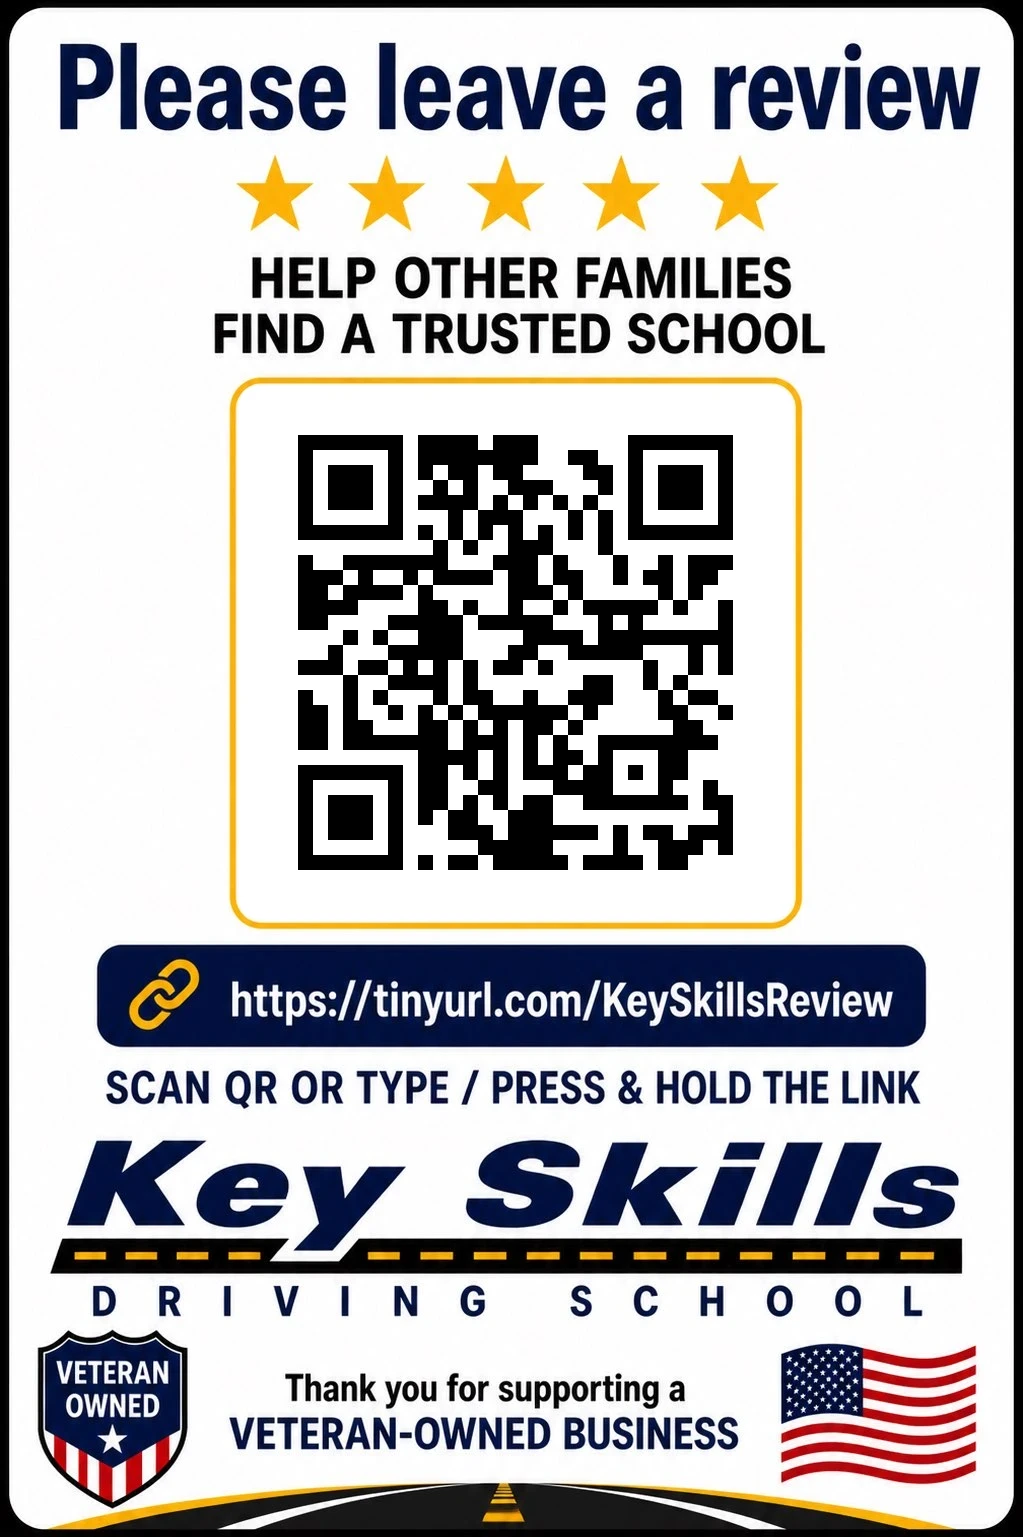
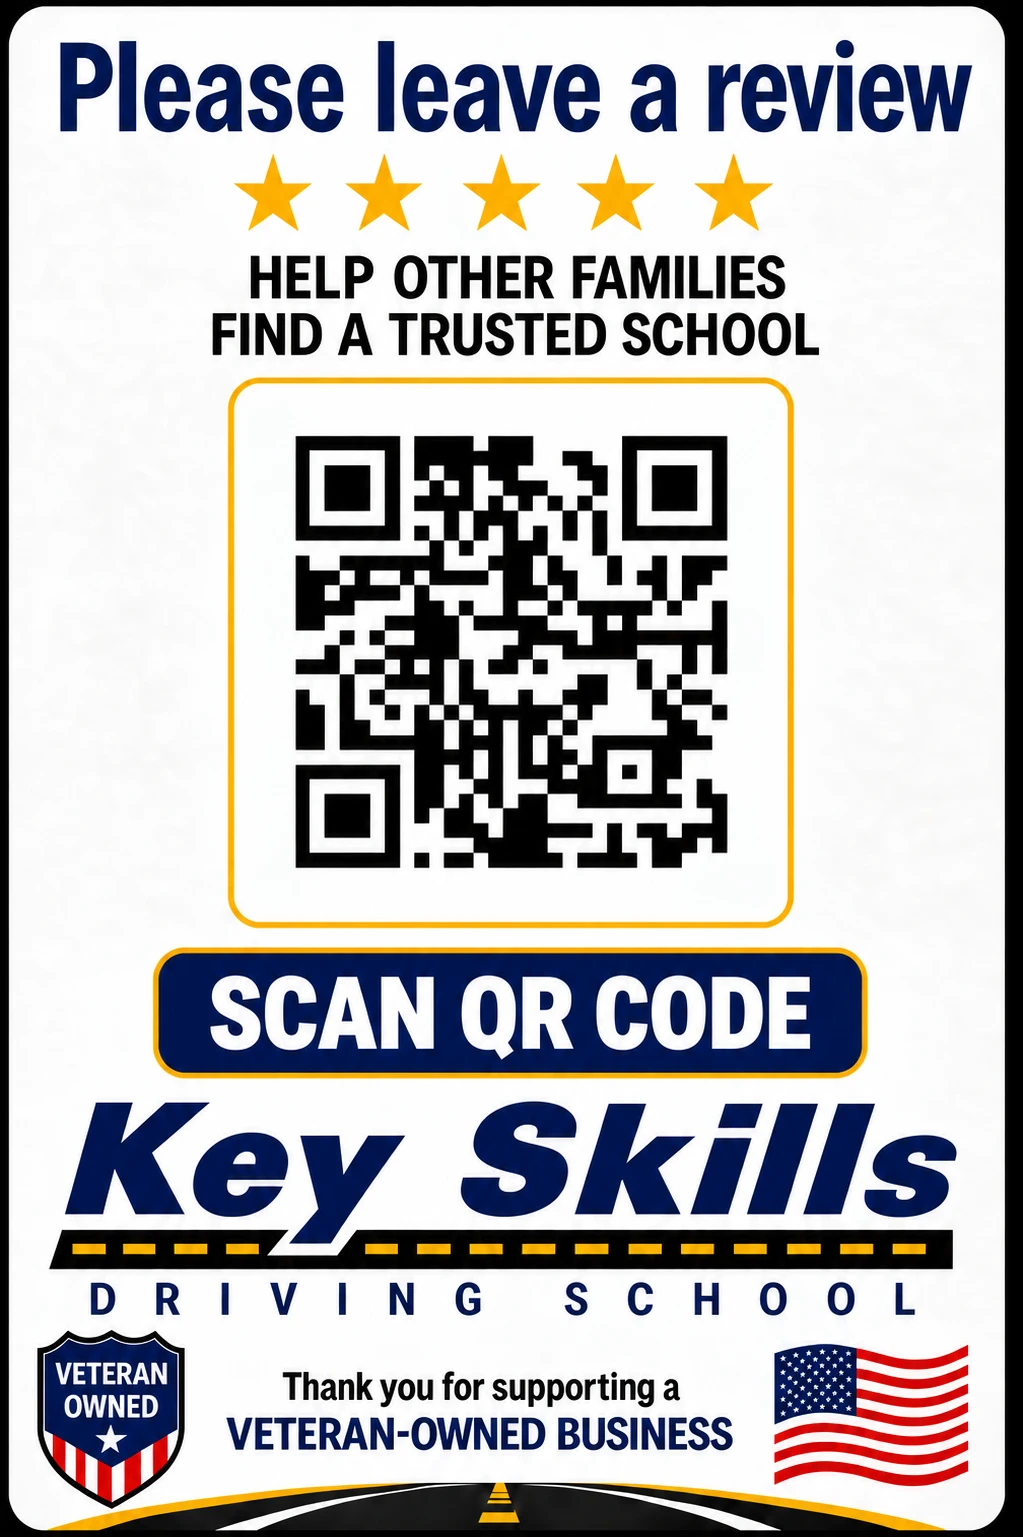
Review: Eli's new card
Replaces the review card image with the new version he sent (same 1023x1537). Its QR code scans as-is (jsQR and ZXing both read https://tinyurl.com/KeySkillsReview), so nothing was composited this time. The invisible copy-link tap target now sits over the SCAN QR CODE bar, and the alt text no longer mentions a typed link. Version 3.9.5.

Changed region(s): [[0.0303, 0.0, 1.0, 0.9993], [0.2727, 0.2811, 0.7273, 0.5621]]

diff --git a/docs/app.js b/docs/app.js
@@ -7,7 +7,7 @@ import {
 import { qrSvg } from './review.js';
 
 // Bump together with CACHE in sw.js on every release.
-const VERSION = '3.9.4';
+const VERSION = '3.9.5';
 
 const AI_APPS = {
   chatgpt: { label: 'ChatGPT', url: 'https://chatgpt.com/' },
@@ -1164,13 +1164,13 @@ function schoolBrand(name) {
   </div>`;
 }
 
-// With the school's own link, show Eli's full review card (its QR code was replaced with one
-// that scans). With any other link, fall back to a drawn card with a QR code for that link.
+// With the school's own link, show Eli's full review card (his 2026-09-17 version, whose QR code
+// scans). With any other link, fall back to a drawn card with a QR code for that link.
 function renderReview() {
   const { reviewUrl } = state.settings;
   const card = reviewUrl === REVIEW_DEFAULTS.reviewUrl
     ? `<div class="rv-image-wrap">
-        <img src="review-card.webp" width="1023" height="1537" alt="Please leave a review. Scan the QR code or go to tinyurl.com/KeySkillsReview. Key Skills Driving School, a veteran-owned business.">
+        <img src="review-card.webp" width="1023" height="1537" alt="Please leave a review. Scan the QR code. Key Skills Driving School, a veteran-owned business.">
         <button class="rv-link-hit" data-action="copy-review" aria-label="Copy the review link"></button>
       </div>`
     : drawnReviewCard();

diff --git a/docs/styles.css b/docs/styles.css
@@ -695,13 +695,13 @@ textarea.big { min-height: 170px; }
   border-radius: 3% / 2%;
   box-shadow: 0 6px 24px rgba(0, 0, 0, 0.18);
 }
-/* Invisible tap target over the link bar printed on the card. */
+/* Invisible tap target over the SCAN QR CODE bar printed on the card: tapping it copies the link. */
 .rv-link-hit {
   position: absolute;
-  top: 61.4%;
-  left: 9.4%;
-  width: 81.2%;
-  height: 6.7%;
+  top: 61.7%;
+  left: 15.2%;
+  width: 69.5%;
+  height: 8.3%;
   border: 0;
   border-radius: 12px;
   background: transparent;

diff --git a/docs/sw.js b/docs/sw.js
@@ -1,6 +1,6 @@
 // Keeps the app working with no signal. Bump CACHE (and VERSION in app.js) on every release
 // so phones pick up the new files.
-const CACHE = 'lesson-notes-3.9.4';
+const CACHE = 'lesson-notes-3.9.5';
 const ASSETS = [
   './',
   'index.html',
